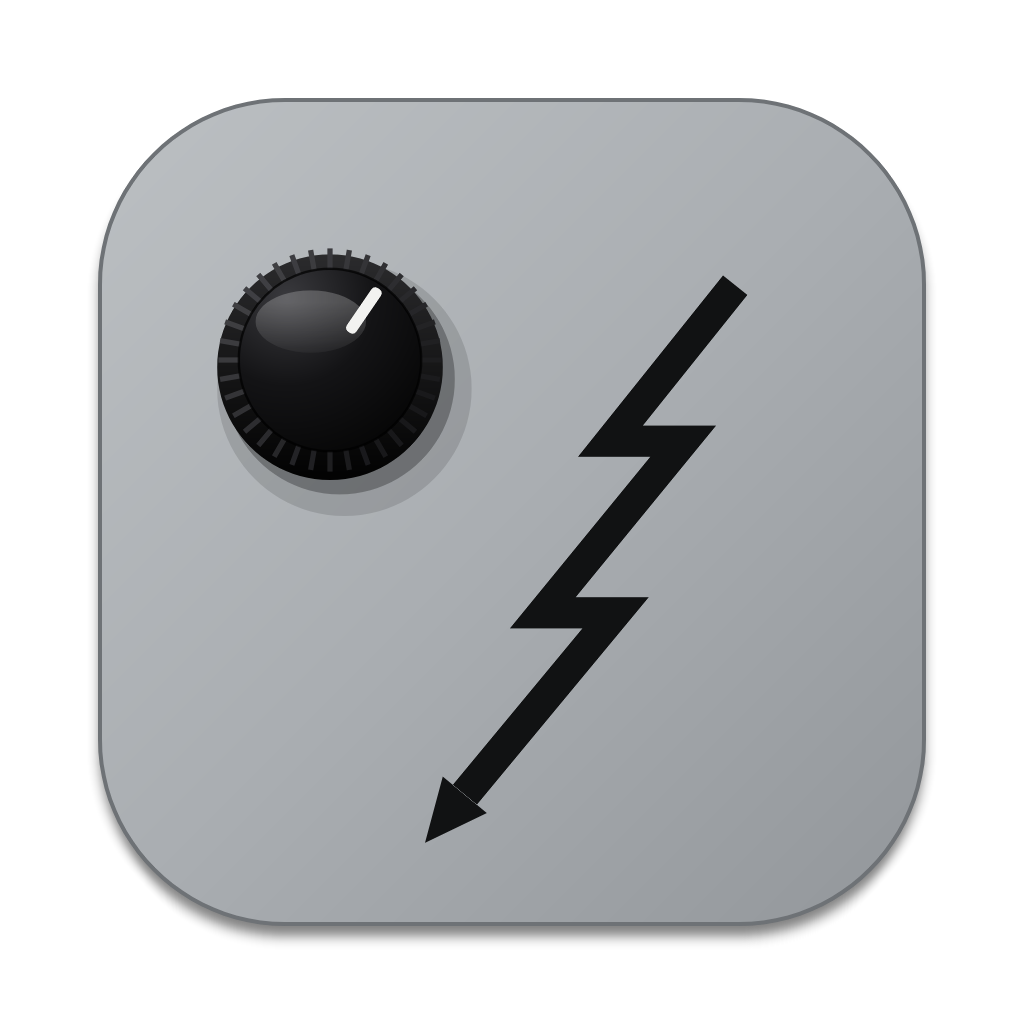
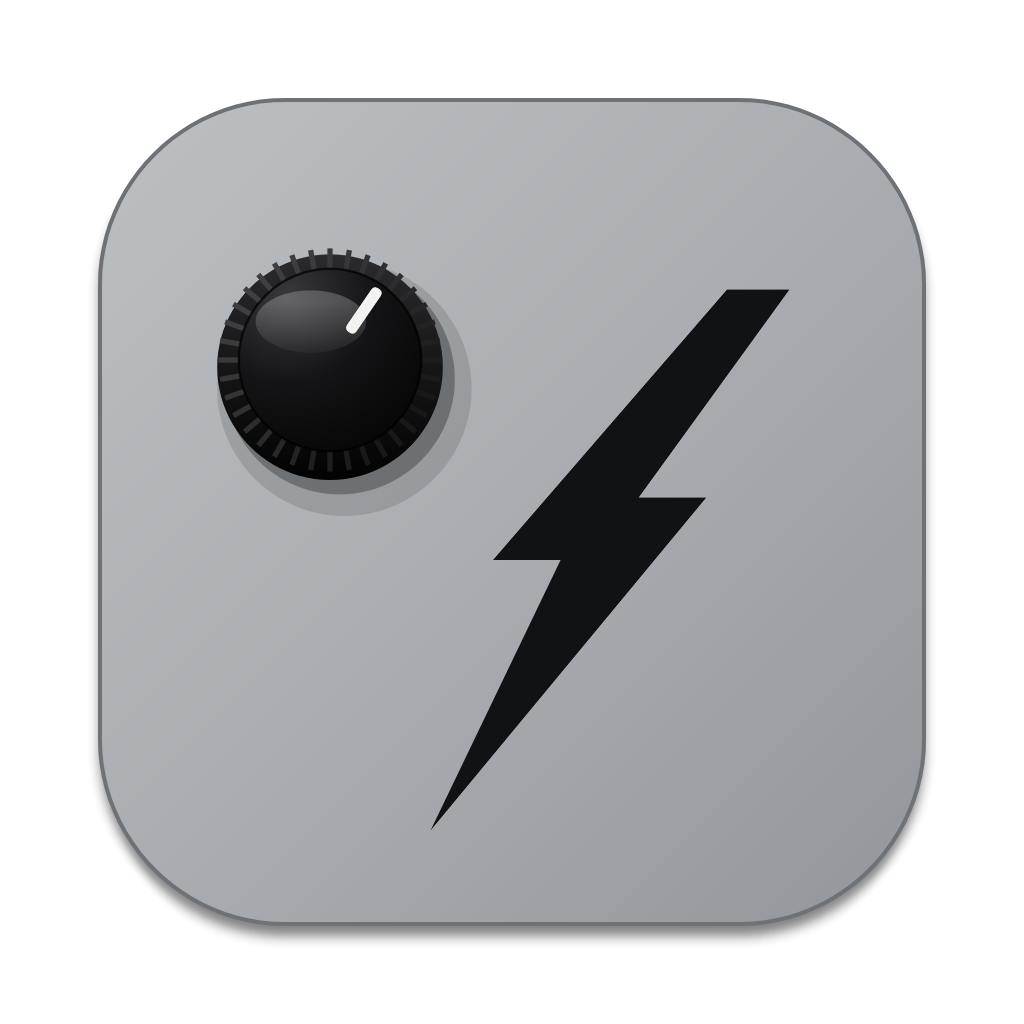
1.1.1: levetta VCA/VCF realistica, riquadro bianco con il fulmine, slogan
Confronto con il layout di gaussmarkov/stobiepole nel README.

Claude-Session: https://claude.ai/code/session_01KmAdq4ZW1zDhTGBoTyPdcC

Changed region(s): [[0.4062, 0.25, 0.7812, 0.8438]]

diff --git a/Source/PluginEditor.cpp b/Source/PluginEditor.cpp
@@ -323,19 +323,20 @@ void ToggleSwitch::drawToggle (juce::Graphics& g, juce::Rectangle<float> b, bool
     g.fillEllipse (Rectangle<float> (15 * k, 15 * k).withCentre (c));
     g.setColour (Colour (0xff2a2a2c));
     g.fillEllipse (Rectangle<float> (7 * k, 7 * k).withCentre (c));
-    // levetta (in alto = VCA, in basso = VCF)
+    // levetta (in alto = VCA, in basso = VCF): inclinata di circa 15 gradi, quindi vista
+    // dall'alto sporge poco dalla boccola e la pallina in cima sembra più grande
     const float dir = up ? -1.0f : 1.0f;
-    const auto tip = c.translated (0, dir * 24 * k);
+    const auto tip = c.translated (0, dir * 11 * k);
     Path lever;
-    lever.startNewSubPath (c.x - 2.6f * k, c.y);
-    lever.lineTo (tip.x - 3.6f * k, tip.y); lever.lineTo (tip.x + 3.6f * k, tip.y);
-    lever.lineTo (c.x + 2.6f * k, c.y); lever.closeSubPath();
+    lever.startNewSubPath (c.x - 2.8f * k, c.y);
+    lever.lineTo (tip.x - 3.4f * k, tip.y); lever.lineTo (tip.x + 3.4f * k, tip.y);
+    lever.lineTo (c.x + 2.8f * k, c.y); lever.closeSubPath();
     g.setColour (Colours::black.withAlpha (0.3f));
-    g.fillPath (lever, AffineTransform::translation (2 * k, 3 * k));
+    g.fillEllipse (Rectangle<float> (10 * k, 10 * k).withCentre (tip.translated (2.5f * k, (up ? -1.0f : 4.0f) * k)));
     g.setGradientFill (ColourGradient (Colour (0xfff4f5f6), c.x - 4 * k, 0, Colour (0xff7d8187), c.x + 4 * k, 0, false));
     g.fillPath (lever);
-    g.setGradientFill (chrome (tip, 4.5f * k, 0.0f));
-    g.fillEllipse (Rectangle<float> (9 * k, 9 * k).withCentre (tip));
+    g.setGradientFill (chrome (tip, 5.0f * k, 0.0f));
+    g.fillEllipse (Rectangle<float> (9.5f * k, 9.5f * k).withCentre (tip));
     if (highlighted) { g.setColour (Colours::white.withAlpha (0.08f)); g.fillEllipse (Rectangle<float> (30 * k, 30 * k).withCentre (c)); }
 }
 
@@ -577,24 +578,19 @@ void InteriorPanel::paint (juce::Graphics& g)
 // BIAS / DEPTH / GAIN / LEVEL in alto); scritte e grafica proprie.
 namespace
 {
-    // la "scintilla": un dente di sega spezzato, cioè la rampa dell'LFO che scarica
-    juce::Path sparkPath (std::function<juce::Point<float> (float, float)> P, float u)
+    // il fulmine nero che attraversa il riquadro del nome (come sul Gristleizer grigio)
+    juce::Path boltPath (std::function<juce::Point<float> (float, float)> P, float)
     {
-        using namespace juce;
-        const Point<float> pts[] = { P (300, 270), P (252, 330), P (280, 330), P (226, 396), P (254, 396), P (196, 466) };
-        Path centre;
-        centre.startNewSubPath (pts[0]);
-        for (int i = 1; i < 6; ++i) centre.lineTo (pts[i]);
-        Path out;
-        PathStrokeType (12.0f * u, PathStrokeType::mitered, PathStrokeType::butt).createStrokedPath (out, centre);
-        // punta
-        const auto a = pts[4], b = pts[5];
-        const auto d = (b - a) / a.getDistanceFrom (b);
-        const Point<float> n (-d.y, d.x);
-        Path tip;
-        tip.addTriangle (b - n * (11.0f * u), b + n * (11.0f * u), b + d * (24.0f * u));
-        out.addPath (tip);
-        return out;
+        juce::Path b;
+        b.startNewSubPath (P (296, 262));      // estremità superiore
+        b.lineTo (P (320, 262));
+        b.lineTo (P (262, 342));
+        b.lineTo (P (288, 342));
+        b.lineTo (P (182, 470));               // punta inferiore
+        b.lineTo (P (232, 366));
+        b.lineTo (P (206, 366));
+        b.closeSubPath();
+        return b;
     }
 }
 
@@ -690,14 +686,17 @@ void GristleEditor::drawPedal (juce::Graphics& g, juce::Rectangle<float> body, j
     drawBaseline (g, F (12.0f, 0.6f), "VCA", P (modeX + 20, 0).x, P (0, modeY - 14).y, Justification::left);
     drawBaseline (g, F (12.0f, 0.6f), "VCF", P (modeX + 20, 0).x, P (0, modeY + 26).y, Justification::left);
 
-    // riquadro con il nome, attraversato dalla scintilla
-    const Rectangle<float> box (P (26, 290), P (236, 350));
+    // riquadro bianco con il nome, attraversato dal fulmine
+    const Rectangle<float> box (P (24, 300), P (306, 352));
+    g.setColour (Colour (0xfff3f3f1));
+    g.fillRect (box);
     g.setColour (ink);
-    g.drawRect (box, 2.2f * u);
-    drawBaseline (g, F (21.0f, 0.4f), "Cartilagine", P (38, 0).x, P (0, 329).y, Justification::left);
-    for (auto [line, yy] : { std::pair<const char*, float> { "MODULATORE", 374.0f }, { "A TENSIONE", 388.0f }, { "DI CONTROLLO", 402.0f } })
-        drawBaseline (g, F (9.0f, 0.5f), line, P (36, 0).x, P (0, yy).y, Justification::left);
-    g.fillPath (sparkPath (P, u));
+    g.drawRect (box, 2.4f * u);
+    drawBaseline (g, F (22.0f, 0.4f), "Cartilagine", P (36, 0).x, P (0, 335).y, Justification::left);
+    for (auto [line, yy] : { std::pair<const char*, float> { "INDUSTRIAL", 378.0f }, { "MUSIC FOR", 392.0f },
+                             { "INDUSTRIAL", 406.0f }, { "PEOPLE", 420.0f } })
+        drawBaseline (g, F (9.5f, 0.5f), line, P (34, 0).x, P (0, yy).y, Justification::left);
+    g.fillPath (boltPath (P, u));
 
     // marchio
     g.setColour (ink.withAlpha (0.85f));
@@ -723,9 +722,9 @@ juce::Image GristleEditor::createAppIcon (int size)
     g.strokePath (bodyPath, PathStrokeType (4.0f * u));
     // la scintilla in grande, con una manopola
     const float s = 2.6f * u;
-    auto P = [s, u] (float x, float y) { return Point<float> ((x - 248.0f) * s + 600.0f * u, (y - 368.0f) * s + 540.0f * u); };
+    auto P = [s, u] (float x, float y) { return Point<float> ((x - 251.0f) * s + 610.0f * u, (y - 366.0f) * s + 560.0f * u); };
     g.setColour (ink);
-    g.fillPath (sparkPath (P, s));
+    g.fillPath (boltPath (P, s));
     PedalLookAndFeel::drawPedalKnob (g, { 330 * u, 360 * u }, 2.4f * u, 0.6f);
     return img;
 }

diff --git a/Source/PluginEditor.h b/Source/PluginEditor.h
@@ -119,7 +119,7 @@ public:
     static constexpr float modeX  = 254.0f, modeY  = 222.0f;
     static constexpr float rateLedX = 34.0f, rateLedY = 266.0f;
     static constexpr float inX    = 116.0f, inY    = 474.0f;
-    static constexpr float inLedX = 58.0f,  inLedY = 452.0f;
+    static constexpr float inLedX = 46.0f,  inLedY = 462.0f;
     static constexpr float knobSize = 86.0f, switchSize = 58.0f;
 
 private:

diff --git a/README.md b/README.md
@@ -92,6 +92,16 @@ casa) mantengono il circuito di Gwinn e cambiano il pannello in modo molto simil
 - Alimentazione: quasi sempre un 9 V unico (con pompa di carica o massa virtuale) al posto delle
   due PP3, e spesso TL072 al posto dei 741. In questo plugin restano i 741 dell'articolo.
 
+### Confronto con il progetto di gaussmarkov e stobiepole (2007)
+
+Il layout per stripboard/PCB di gaussmarkov.net riprende l'articolo con gli stessi valori di tutte le
+resistenze e i condensatori; cambiano solo i semiconduttori con equivalenti più facili da trovare:
+TR1 2N3906 al posto del BC187 (PNP simili, VR2 compensa), D1/D2 1N34A al posto degli OA47 (germanio,
+un po' più di perdita: l'LFO a SPEED zero resta leggermente più veloce), LM741. SHAPE, OFFSET, BIAS
+e LEVEL sono trimmer sulla scheda, come nell'originale: sul pannello restano SPEED, DEPTH, S1 e il
+DPDT FILTER/ENVELOPE. Lo schema conferma il verso di D1 e D2, C8 "flottante" in ENVELOPE e il cablaggio
+di S1 usati nel modello.
+
 ## Il circuito, stadio per stadio
 
 - **LFO**: IC1 integra la corrente che arriva dal cursore di VR1 (tra 0 e −9 V) attraverso R1 56k.
@@ -182,7 +192,6 @@ I test girano tutti su GitHub:
 ## Grafica e caratteri
 
 Interfaccia ispirata ai Gristleizer autocostruiti: scatola grigio chiaro verniciata a polvere,
-serigrafia nera, manopole nere zigrinate, LED rossi, deviatore VCA/VCF. Nome, scritte e la
-"scintilla" (un dente di sega spezzato, cioè la rampa dell'LFO) sono propri: il logo e lo slogan dei
-Throbbing Gristle non sono riprodotti. Caratteri: Archivo Black (SIL OFL), Yellowtail (Apache 2.0),
+serigrafia nera, manopole nere zigrinate, LED rossi, deviatore VCA/VCF, il riquadro bianco con il nome
+attraversato dal fulmine e "Industrial music for industrial people". Caratteri: Archivo Black (SIL OFL), Yellowtail (Apache 2.0),
 licenze in `resources/fonts/`. Uso personale e non commerciale.
